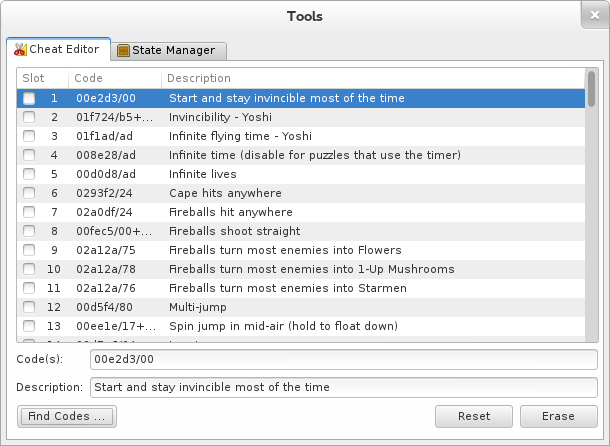
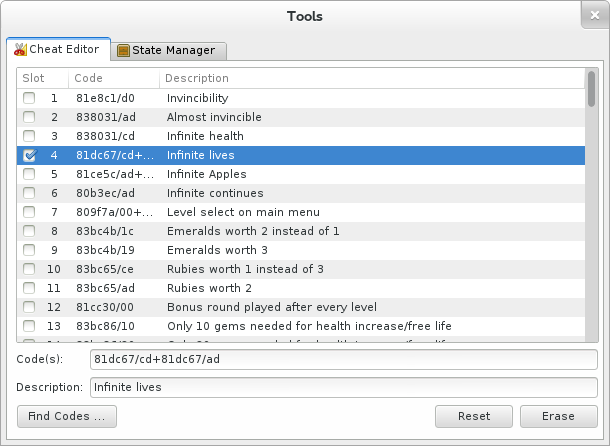
Update user guide.

diff --git a/debian/userguide/higan_user_guide.html b/debian/userguide/higan_user_guide.html
@@ -242,9 +242,9 @@ collection first.</p>
 
 <h3>Importing Games</h3>
 
-<p>To import games into your library, choose Library-&gt;Import Game.</p>
-
-<p>Here, you can navigate and select any game for any system. It can be game
+<p>To import games into your library, open the library by choosing any entry from
+the Library menu and then go to the Import tab.
+Here, you can navigate and select any game for any system. It can be game
 file, or a ZIP file with the game inside of it.</p>
 
 <p>Once selected, it will be imported into your library and the game will begin
@@ -253,7 +253,7 @@ to play.</p>
 <h3>Ignoring the Library</h3>
 
 <p>If you don't like the idea of the game library, then simply ignore it. Use
-Load-&gt;Import Game every single time. The first time you use it, your save games
+the Import tab every single time. The first time you use it, your save games
 will be imported as well. Subsequent loads will not overwrite your existing save
 files, so there's no need to worry.</p>
 
@@ -265,7 +265,7 @@ play the games you actually care about. Not as a game collecting tool where you
 have to have a 100% complete collection.</p>
 
 <p>Once a game has been imported, you can load it again by choosing
-Load-&gt;{Name of System}, eg Load-&gt;Super Famicom.</p>
+Library-&gt;{Name of System}, eg Load-&gt;Super Famicom.</p>
 
 <p><img src="higan_user_guide_files/load-library.png" alt=""></p>
 
@@ -274,7 +274,7 @@ that are remembered for each emulated system, it also remembers the last game
 you played and will select it automatically.</p>
 
 <p>Please note that you cannot load game files or ZIP archives directly from
-the library. You must use Import Game to get games into your library.</p>
+the library. You must use the Import tab to get games into your library.</p>
 
 <h3>Playing Games</h3>
 
@@ -361,7 +361,7 @@ prove to be quite fun.</p>
 
 <h3>Advanced Extra Settings</h3>
 
-<p>For the power user, you can edit the settings.cfg file in ~/.config/higan
+<p>For the power user, you can edit the settings.bml file in ~/.config/higan
 to control even more settings.
 </p>
 
